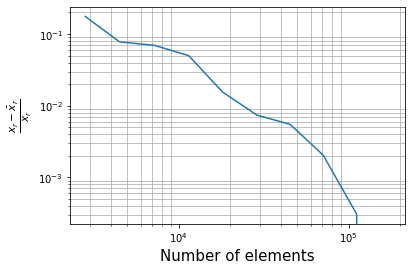
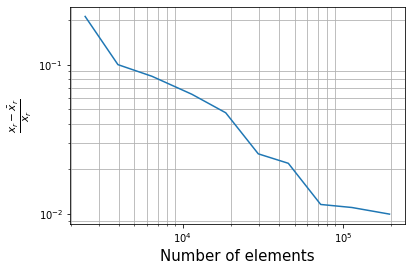
Corrections to backward-facing step example document and updated associated figures

Changed region(s): [[0.0876, 0.0295, 0.9927, 0.9742], [0.8175, 0.8561, 0.8759, 0.9151]]

diff --git a/doc/source/examples/incompressible-flow/2d-backward-facing-step/2d-backward-facing-step.rst b/doc/source/examples/incompressible-flow/2d-backward-facing-step/2d-backward-facing-step.rst
@@ -130,15 +130,15 @@ Here is an example of mesh adaptation using Kelly error estimator for :math:`Re 
 
 Initial coarse mesh :
 
-.. image:: 
+.. image:: image/0th_mesh.png
 
 After four refinement steps :
 
-.. image:: 
+.. image:: image/4th_mesh.png
 
-After six refinement steps :
+After eight refinement steps :
 
-.. image:: 
+.. image:: image/8th_mesh.png
 
 FEM
 ~~~
@@ -229,7 +229,7 @@ For :math:`Re \geq 700`, however, it is often necessary to set ``ilu precondtion
 	end
 	
 .. tip::
-	It is important to note that ``minimum residual`` of the linear solver is quite smaller than the ``tolerance`` of the non-linear solver. The reader can consult the `Parameters Guide <https://lethe-cfd.github.io/lethe/parameters/cfd/linear_solver_control.html>`_ for more information.
+	It is important to note that the ``minimum residual`` of the linear solver is smaller than the ``tolerance`` of the non-linear solver. The reader can consult the `Parameters Guide <https://lethe-cfd.github.io/lethe/parameters/cfd/linear_solver_control.html>`_ for more information.
 	
 Running the Simulations
 -----------------------
@@ -240,7 +240,7 @@ The simulation can be executed using the following command (assuming that the so
 
 	gls_navier_stokes_2d Backward_facing_step.prm
 	
-However, mpi can be used to lower calculation time by using several CPUs :
+However, mpi can be used to lower calculation time by using several CPUs (especially useful for pseudo-steady simulations) :
 
 .. code-block:: text
 
@@ -259,35 +259,34 @@ After opening the file ``backward_facing_step_output.pvd`` with Paraview, the fo
 
 For :math:`Re = 100` :
 
-.. image:: 
+.. image:: image/Reynolds100.png
 
-It is possible to notice that there seems to be a lot of diffusion past the step. This phenomenon is coherent with what is known of the Navier-Stokes equations : the diffusivity term is inversely proportional to the Reynolds number. Most importantly, a small eddy adjacent to the step is clearly observable. It is also visually noticeable that :math:`x_r \simeq 2.9` (:math:`x \simeq 12.9`). With the Python module Pyvista, raw simulation data can be extracted (from the .vtu files) and this data can be used to compute :math:`x_r` numerically. This can be calculated with the following equation. 
+It is possible to notice that there seems to be a lot of diffusion past the step. This phenomenon is coherent with what is known of the Navier-Stokes equations : the diffusivity term is inversely proportional to the Reynolds number. Most importantly, a small eddy adjacent to the step is clearly observable. It is also visually noticeable that :math:`x_r \simeq 2.9` (:math:`x \simeq 17.9`). With the Python module Pyvista, raw simulation data can be extracted (from the .vtu files) and this data can be used to compute :math:`x_r` numerically. This can be calculated with the following equation. 
 
 .. math::
 	\left[ \frac{du}{dy} \right]_{y=0} = 0
 
 which can be resolved with a bisection algorithm or with any other appropriate numerical approach. By doing this step for each successively refined mesh, a mesh refinement analysis can be achieved.
 
-.. image:: 
+.. image:: image/Reynolds100_mesh_refinement.png
 
-where the final value of :math:`x_r` is :math:`2.898`. We notice from the graph that convergence is obtained quite quickly : the following figure illustrates the evolution of the relative error as the number of elements increases.
+where the final value of :math:`x_r` is :math:`2.893`. We notice from the graph that convergence is obtained quite quickly : the following figure illustrates the evolution of the relative error as the number of elements increases.
 
-.. image:: i
+.. image:: image/Reynolds100_error_analysis.png
+
+The reference value used in the error analysis is taken from Erturk (2008).
 
 
 Higher Reynolds Number (:math:`Re=1000`)
 ~~~~~~~~~~~~~~~~~~~~~~~~~~~~~~~~~~~~~~~~~~~~~~~~~~~~~~~~~~~~~
 
-In a similar way as we did in the precedent subsection, the solution for :math:`Re = 800` and :math:`Re = 1000` can be obtained.
+In a similar way as we did in the precedent subsection, the solution for :math:`Re = 1000` can be obtained.
 
+For :math:`Re = 1000` : 
 
-and for :math:`Re = 1000` : 
+.. image:: image/Reynolds1000.png
 
-.. image:: 
-
-.. image:: 
-
-In the contrary of what we saw in the :math:`Re = 100` case, it is clearly noticeable that there is much less diffusion within the flow. This is once more coherent with the theory. The same eddy as mentionned in the previous section is still present, but grows as the Reynolds number is increased. Furthermore, a second principal eddy can be seen adjacent to the top wall in the range :math:`x \in [19,32]`. This "oscillating flow" caracteristic is expected of a higher Reynolds flow such as this one. Finally, the :math:`x_r` variable is evaluated visually and at :math:`x_r \simeq 11.0` (:math:`x \simeq 21.0`).
+In the contrary of what we saw in the :math:`Re = 100` case, it is clearly noticeable that there is much less diffusion within the flow. This is once more coherent with the theory. The same eddy as mentionned in the previous section is still present, but grows as the Reynolds number is increased. Furthermore, a second principal eddy can be seen adjacent to the top wall in the range :math:`x \in [25,37]`. This "oscillating flow" caracteristic is expected of a higher Reynolds flow such as this one. Finally, the :math:`x_r` variable is evaluated visually and at :math:`x_r \simeq 12.5` (:math:`x \simeq 27.5`). By using the same Python algorithm as before, we obtain :math:`x_r = 12.637` as a precise numerical result.
 
 
 Validation and Comparison
@@ -296,18 +295,18 @@ Validation and Comparison
 Reattachment Length
 ~~~~~~~~~~~~~~~~~~~
 
-In this section, the solutions obtained with *Lethe* will be compared with data that can be found in the scientific litterature (Erturk (2008) [1], Armaly and al. (1983) [2], Velivelli and Bryden (2015) [3]). Several studies include datasets of :math:`x_r = f(Re)` (reattachment length) either analytically or numerically. The next figure illustrates some of them.
+In this section, the solutions obtained with *Lethe* are compared with data that can be found in the scientific litterature (Erturk (2008) [1], Armaly and al. (1983) [2], Velivelli and Bryden (2015) [3]). Several studies include datasets of :math:`x_r/h = f(Re)` (reattachment length) either experimentally or numerically. The next figure illustrates some of them in comparison with *Lethe*.
 
-.. image:: 
+.. image:: image/xr_comparison.png
 
-First, the results provided by *Lethe* are identical or so to all of the three selected studies for low Reynolds numbers (:math:`Re \leq 400`). After that point, both results form *Lethe* and from Erturk (2008) [1] diverge from the experimental data of Armaly and al. (1983) [2]. According to [1], this error is due to 3D effects that are more potent as the flow becomes more and more turbulent. There is also a less signficant but clearly noticeable error between *Lethe* and Erturk [1] : the fact that the tolerances have been set quite high in the parameter file might have underestimated the reattachment length. Also, first order elements have been used throughout the whole simulation process. Using second order elements for velocity, for instance, could yield better results for higher Reynolds number. The following table illustrates the error at :math:`Re = 600` for first and second order velocity elements.
+First, the results provided by *Lethe* are identical or so to all of the three selected studies for low Reynolds numbers (:math:`Re \leq 400`). After that point, both results form *Lethe* and from Erturk (2008) [1] diverge from the experimental data of Armaly and al. (1983) [2]. According to [1], this error is due to 3D effects that are more potent as the flow becomes more and more turbulent. Furthermore, there is also a less signficant but clearly noticeable error between *Lethe* and Erturk [1] : the fact that certain tolerances have been set quite high in the parameter file might have underestimated the reattachment length. Also, first order elements have been used throughout the whole simulation process. Using second order elements for velocity, for instance, could yield better results for higher Reynolds number. The following table illustrates the error at :math:`Re = 600` for first and second order velocity elements.
 
 +---------------+----------------+----------------+
-| Order         | :math:`x_r`    | Error          |
+| Order         | :math:`x_r/h`  | Error          |
 +===============+================+================+
-| Order 1       | :math:`10.051` | :math:`2.88` % |
+| Order 1       | :math:`10.219` | :math:`1.26` % |
 +---------------+----------------+----------------+
-| Order 2       | :math:`10.125` | :math:`2.16` % |       
+| Order 2       | :math:`10.250` | :math:`0.96` % |       
 +---------------+----------------+----------------+
 | Erturk (2008) | :math:`10.349` | N/A            |
 +---------------+----------------+----------------+
@@ -315,22 +314,25 @@ First, the results provided by *Lethe* are identical or so to all of the three s
 Velocity distribution
 ~~~~~~~~~~~~~~~~~~~~~
 
-To validate the quality of the mesh/geometry as well as, it is interesting to compare the obtained velocity destributions with analytical data.
+To validate the quality of the mesh/geometry as well as, it is interesting to compare the obtained velocity destributions with analytical data. The following figures illustrate the velocity distributions at the outlet (right wall) in comparison to the analytical solution.
 
-Velocity at the step (:math:`x = 10`) :
+For :math:`Re = 100` :
 
-.. image:: 
+.. image:: image/Reynolds100_poiseuille.png
 
-Velocity at the outlet (:math:`x = 100`) :
+For :math:`Re = 1000`:
 
-.. image:: 
+.. image:: image/Reynolds1000_poiseuille.png
+
+For :math:`Re = 1000`, an error on the velocity profile is visually noticeable. We can assume that the outlet is not long enough for the flow to be fully developped at its end, meaning that there is still traction on the fluid. Consequently, increasing this length is essential in order to be able to validate cases where :math:`Re \geq 1000`.
+
 
 Possibilites for Extension
 --------------------------
 
 - **Validate with a 3D geometry/mesh** : Since experimental data takes into account 3D effects, it would be interesting to compare numerical data to experimental results.
-- **Use second order elements for higher Reynolds simulations** : Using second order elements can improve accuracy for more turbulent flows. Also, it can be very powerful in this particular example, since quadratric elements can theorically interpolate *Poiseuille* flows with genuinely no numerical error.
-- **Validate for even higher Reynolds numbers** : Some studies compute their simulations up to :math:`Re = 3000`. It would also be interesting to visualize the transition to a turbulent flow.
+- **Use second order elements for higher Reynolds simulations** : Using second order elements can improve accuracy for more turbulent flows. Also, it can be very powerful in this particular example, since quadratric elements can theorically interpolate *Poiseuille* flows with genuinely no numerical error. Consequently, the method can yield incredibly precise results while maintaining a very coarse mesh far from the step. 
+- **Validate for even higher Reynolds numbers** : Some studies compute their simulations up to :math:`Re = 3000`. It would also be interesting to visualize the formation of more eddies further downstream of the step.
 
 References
 ----------
